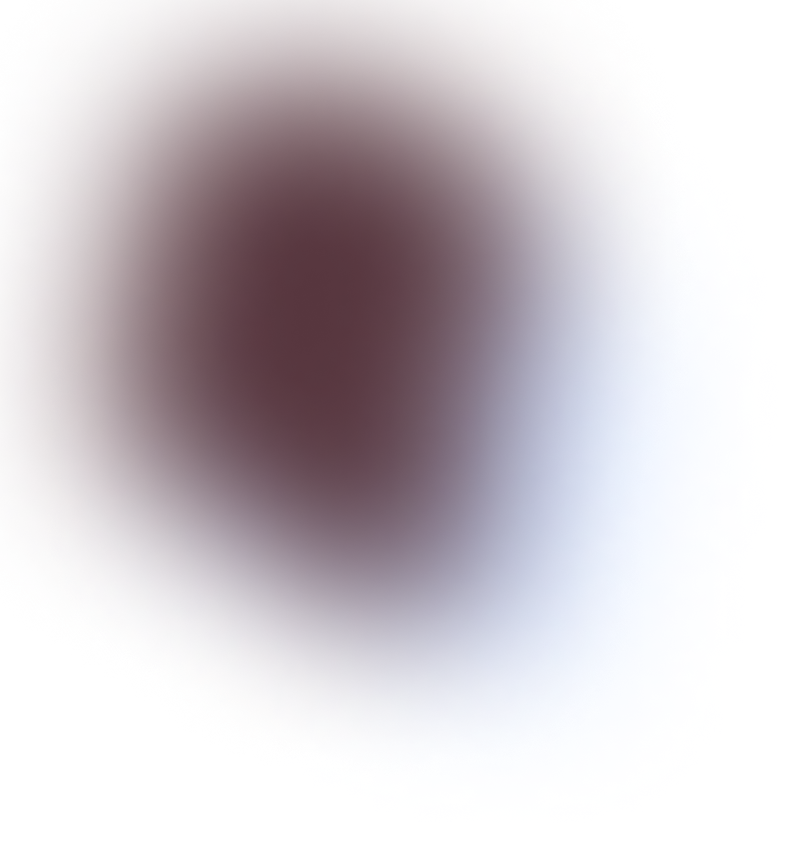
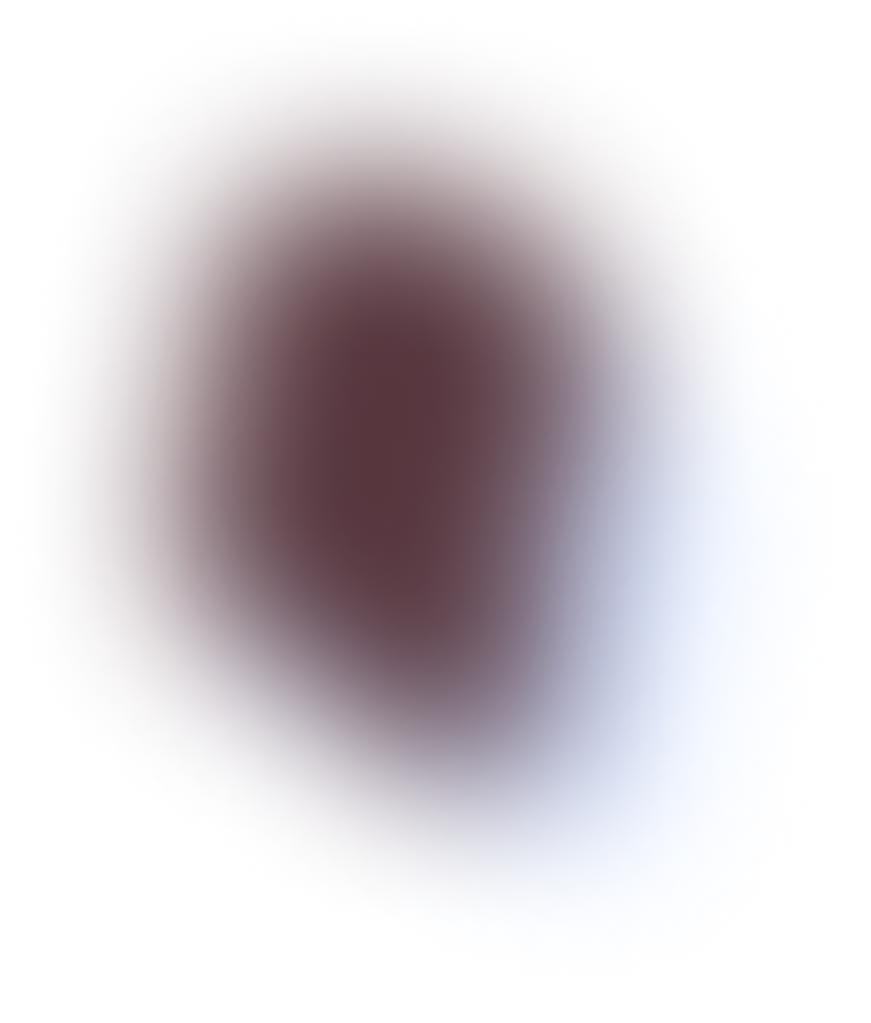
Mobile styles.

Changed region(s): [[0.0312, 0.0, 0.6875, 0.5791], [0.4062, 0.3353, 0.7188, 0.7925]]

diff --git a/features/home/hero/index.module.css b/features/home/hero/index.module.css
@@ -9,38 +9,45 @@
     padding: 5rem var(--home-sides-padding);
 
     display: flex;
+    flex-direction: column;
     align-items: center;
-    justify-content: space-between;
 }
 
 .text {
-    margin-right: 2rem;
+    margin: 0 0 2rem;
 }
 
 .text h1 {
-    font-size: 4rem;
+    font-size: 3rem;
     font-weight: 600;
-    margin-bottom: 3rem;
+    margin: 0 0 2rem;
+    text-align: center;
+}
+
+.image {
+    display: none;
 }
 
 .links {
     display: flex;
+    flex-direction: column;
+    align-items: center;
 }
 
 .link {
-    padding: 1rem 0.75rem;
+    padding: 0.5rem 1rem;
     border: 1px solid #D9D9D9;
     background: transparent;
     border-radius: var(--border-radius);
     color: var(--color-primary);
-    margin-right: 1rem;
+    margin: 0 0 1rem;
     font-size: 1.25rem;
     line-height: 1.25rem;
     white-space: nowrap;
 }
 
 .link:last-child {
-    margin-right: 0;
+    margin: 0;
 }
 
 .link:hover {
@@ -59,11 +66,60 @@
 }
 
 .spot1 {
-    top: 0;
-    left: 0;
+    top: 50%;
+    left: 50%;
+    transform: translate(-50%, -50%);
 }
 
 .spot2 {
-    top: 0;
+    top: -25%;
     right: 0;
+    display: none;
+}
+
+/*Tablet and desktop styles*/
+@media (min-width: 481px) {
+    .content {
+        flex-direction: row;
+        align-items: center;
+        justify-content: space-between;
+    }
+
+    .text {
+        margin: 0 2rem 0 0;
+    }
+
+    .text h1 {
+        font-size: 4rem;
+        margin: 0 0 3rem;
+        text-align: left;
+    }
+
+    .links {
+        flex-direction: row;
+    }
+
+    .link {
+        padding: 1rem 1.25rem;
+        margin: 0 1rem 0 0;
+        margin-bottom: 0;
+        font-size: 1.25rem;
+        line-height: 1.25rem;
+    }
+
+    .link:last-child {
+        margin: 0;
+    }
+
+    .image,
+    .spot1,
+    .spot2 {
+        display: block;
+    }
+
+    .spot1 {
+        top: -35%;
+        left: 0;
+        transform: none;
+    }
 }

diff --git a/features/home/call-to-action/index.module.css b/features/home/call-to-action/index.module.css
@@ -6,41 +6,44 @@
     width: 100%;
     margin: 0 auto;
     max-width: var(--max-width);
-    padding: 5rem var(--home-sides-padding);
+    padding: 3rem var(--home-sides-padding);
 
     display: flex;
     align-items: center;
-    justify-content: space-between;
+    flex-direction: column;
 }
 
 .text {
-    margin-right: 2rem;
+    margin: 0 0 3rem;
 }
 
 .text h1 {
-    font-size: 4rem;
+    font-size: 3rem;
     font-weight: 600;
-    margin-bottom: 3rem;
+    margin: 0 0 3rem;
+    text-align: center;
 }
 
 .links {
     display: flex;
+    flex-direction: column;
+    align-items: center;
 }
 
 .link {
-    padding: 1rem 0.75rem;
+    padding: 0.5rem 1rem;
     border: 1px solid #D9D9D9;
     background: transparent;
     border-radius: var(--border-radius);
     color: var(--color-primary);
-    margin-right: 1rem;
+    margin: 0 0 1rem;
     font-size: 1.25rem;
     line-height: 1.25rem;
     white-space: nowrap;
 }
 
 .link:last-child {
-    margin-right: 0;
+    margin: 0;
 }
 
 .link:hover {
@@ -66,4 +69,38 @@
 .spot2 {
     top: 0;
     right: 0;
+}
+
+/*Tablet and desktop styles*/
+@media (min-width: 481px) {
+    .content {
+        flex-direction: row;
+        align-items: center;
+        justify-content: space-between;
+    }
+
+    .text {
+        margin: 0 2rem 0 0;
+    }
+
+    .text h1 {
+        font-size: 4rem;
+        text-align: left;
+    }
+
+    .links {
+        flex-direction: row;
+    }
+
+    .link {
+        padding: 1rem 1.25rem;
+        margin-right: 1rem;
+        margin-bottom: 0;
+        font-size: 1.25rem;
+        line-height: 1.25rem;
+    }
+
+    .link:last-child {
+        margin-right: 0;
+    }
 }

diff --git a/features/home/cases/index.module.css b/features/home/cases/index.module.css
@@ -6,9 +6,10 @@
     width: 100%;
     margin: 0 auto;
     max-width: var(--max-width);
-    padding: 5rem var(--home-sides-padding);
+    padding: 3rem var(--home-sides-padding);
 
     display: flex;
+    flex-direction: column;
 }
 
 .left,
@@ -19,20 +20,15 @@
 }
 
 .left {
-    margin-right: 2rem;
-    width: 60%;
+    margin: 0 0 2rem;
 }
 
 .left h2 {
-    font-size: 4rem;
+    font-size: 3rem;
     font-weight: 600;
     line-height: 75px;
     margin-bottom: 2rem;
-}
-
-.right {
-    padding-top: 1.5rem;
-    width: 40%;
+    width: 100%;
 }
 
 .right h3 {
@@ -85,4 +81,28 @@
 .spotRight {
     top: 0;
     right: 0;
+}
+
+
+/*Tablet and desktop styles*/
+@media (min-width: 481px) {
+    .content {
+        flex-direction: row;
+        align-items: center;
+        justify-content: space-between;
+    }
+
+    .left {
+        margin: 0 1rem 0 0;
+        width: 60%;
+    }
+
+    .left h2 {
+        font-size: 3rem;
+    }
+
+    .right {
+        padding-top: 1.5rem;
+        width: 40%;
+    }
 }

diff --git a/styles/globals.css b/styles/globals.css
@@ -6,8 +6,8 @@
     --max-width: 1600px;
     --header-height: 7rem;
 
-    --sides-padding: 6rem;
-    --home-sides-padding: 9rem;
+    --sides-padding: 1rem;
+    --home-sides-padding: 1rem;
 
     --color-primary: #FFFFFF;
 
@@ -42,6 +42,19 @@ body {
 a {
     color: inherit;
     text-decoration: none;
+}
+
+/*Tablet and desktop styles*/
+@media (min-width: 481px) {
+    :root {
+        --border-radius: 7px;
+
+        --max-width: 1600px;
+        --header-height: 7rem;
+
+        --sides-padding: 6rem;
+        --home-sides-padding: 9rem;
+    }
 }
 
 @media (prefers-color-scheme: dark) {

diff --git a/features/home/call-to-action/index.tsx b/features/home/call-to-action/index.tsx
@@ -11,7 +11,7 @@ const Cta: FC = () => {
 			<div className={css.content}>
 				<div className={css.text}>
 					<h1>
-						Организуй сейчас —<br />
+						Организуй сейчас —
 						проведи завтра
 					</h1>
 					<div className={css.links}>

diff --git a/app/page.tsx b/app/page.tsx
@@ -60,7 +60,7 @@ export default function RootPage() {
 						"Уборка",
 					]}
 				/>
-				<RecentEvents />
+				{/* <RecentEvents /> */}
 				<Cta />
 			</Main>
 			<Footer />

diff --git a/features/home/hero/index.tsx b/features/home/hero/index.tsx
@@ -34,6 +34,7 @@ const Hero: FC = () => {
 					</div>
 				</div>
 				<Image
+					className={css.image}
 					width={450}
 					height={380}
 					src={"/HeroImage.png"}
